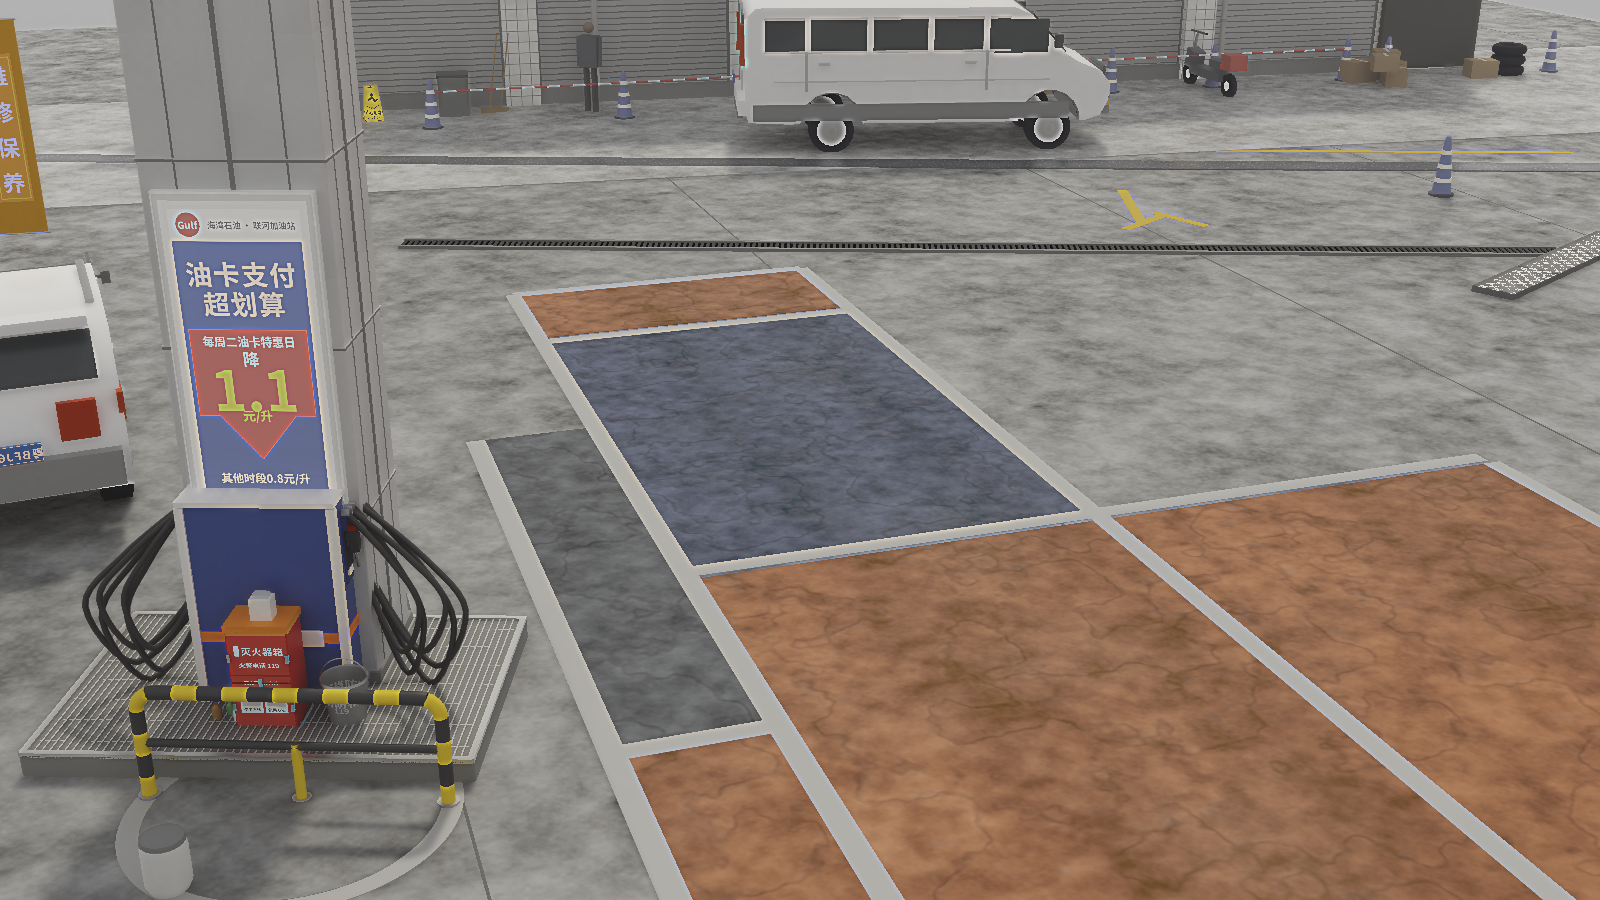
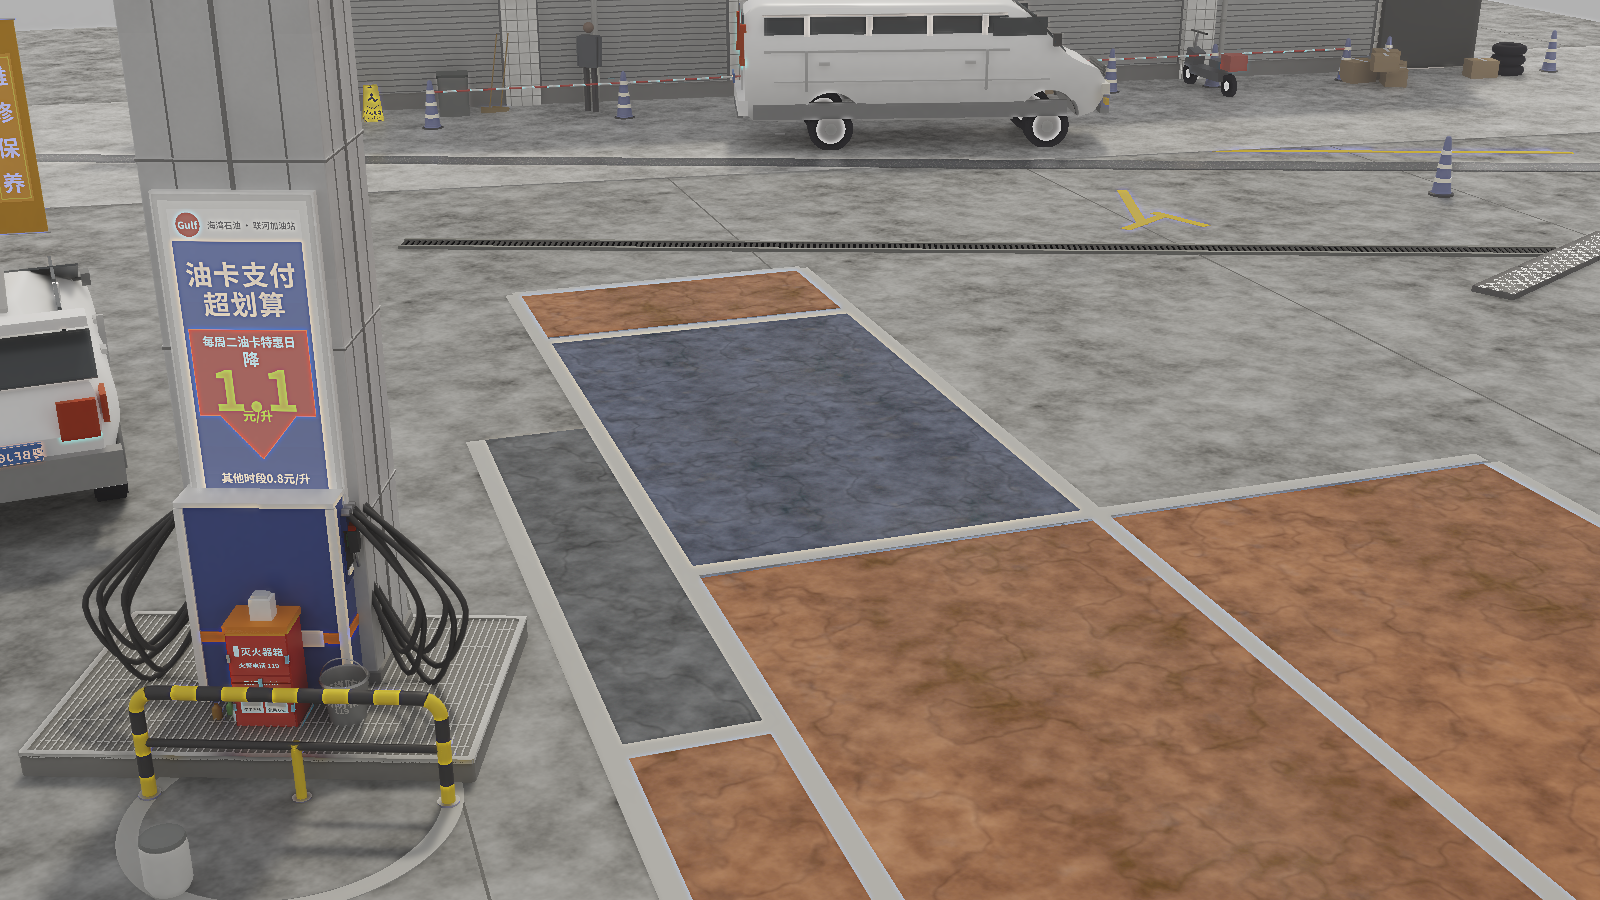
hold the wheel arches: 90 stations and a 15-degree crease

diff --git a/examples/cases/forecourt/parts.py b/examples/cases/forecourt/parts.py
@@ -194,7 +194,7 @@ def _interp(pts, x):
     return pts[-1][1]
 
 
-def loft_grid(lower, upper, hw, nx=44, nz=9, n_smooth=1, crease_angle=26.0):
+def loft_grid(lower, upper, hw, nx=90, nz=11, n_smooth=1, crease_angle=15.0):
     """A body as an ALL-QUAD grid: for each x, the shell spans `lower(x)` to `upper(x)`.
 
     This is the cage a lofted, subdivided body needs. The obvious construction — extrude a
@@ -207,7 +207,12 @@ def loft_grid(lower, upper, hw, nx=44, nz=9, n_smooth=1, crease_angle=26.0):
     Parameterising by x instead removes the problem: a vehicle's silhouette is single-valued
     in x — one bottom edge and one top edge at every station, wheel arches included — so the
     surface is a regular (nx x nz) grid on each flank plus a rim of quads joining them, and
-    every face is a quad. Subdivision then does what it is for."""
+    every face is a quad. Subdivision then does what it is for.
+
+    `nx` and `crease_angle` are set for WHEEL ARCHES, which are the one place a car body
+    turns hard. At 44 stations over six metres the arch is sampled every 13 cm and its
+    corners fall between samples; at a 26-degree crease the opening then rounds away and the
+    body hangs over the tyre like a skirt. 90 stations and 15 degrees hold it."""
     xs = [lower[0][0] + (lower[-1][0] - lower[0][0]) * i / (nx - 1) for i in range(nx)]
     verts, idx = [], {}
     for side in (0, 1):
@@ -889,7 +894,7 @@ def van():
                 material=trim)
         p.place(cbox(3.90, 0.02, 0.035, 0.006), at=[-0.70, s * flank(-0.70, 1.60, 0.004), 1.60],
                 material=trim)
-        p.place(cbox(5.05, 0.07, 0.26, 0.014), at=[-0.30, s * flank(-0.30, 0.655, 0.004), 0.655],
+        p.place(cbox(5.05, 0.05, 0.20, 0.012), at=[-0.30, s * flank(-0.30, 0.655, -0.004), 0.66],
                 material=body)
         p.place(cbox(4.40, 0.03, 0.022, 0.008), at=[-0.30, s * flank(-0.30, 1.14, 0.006), 1.14],
                 material=mat((0.60, 0.605, 0.61), 0.0, 0.30))
